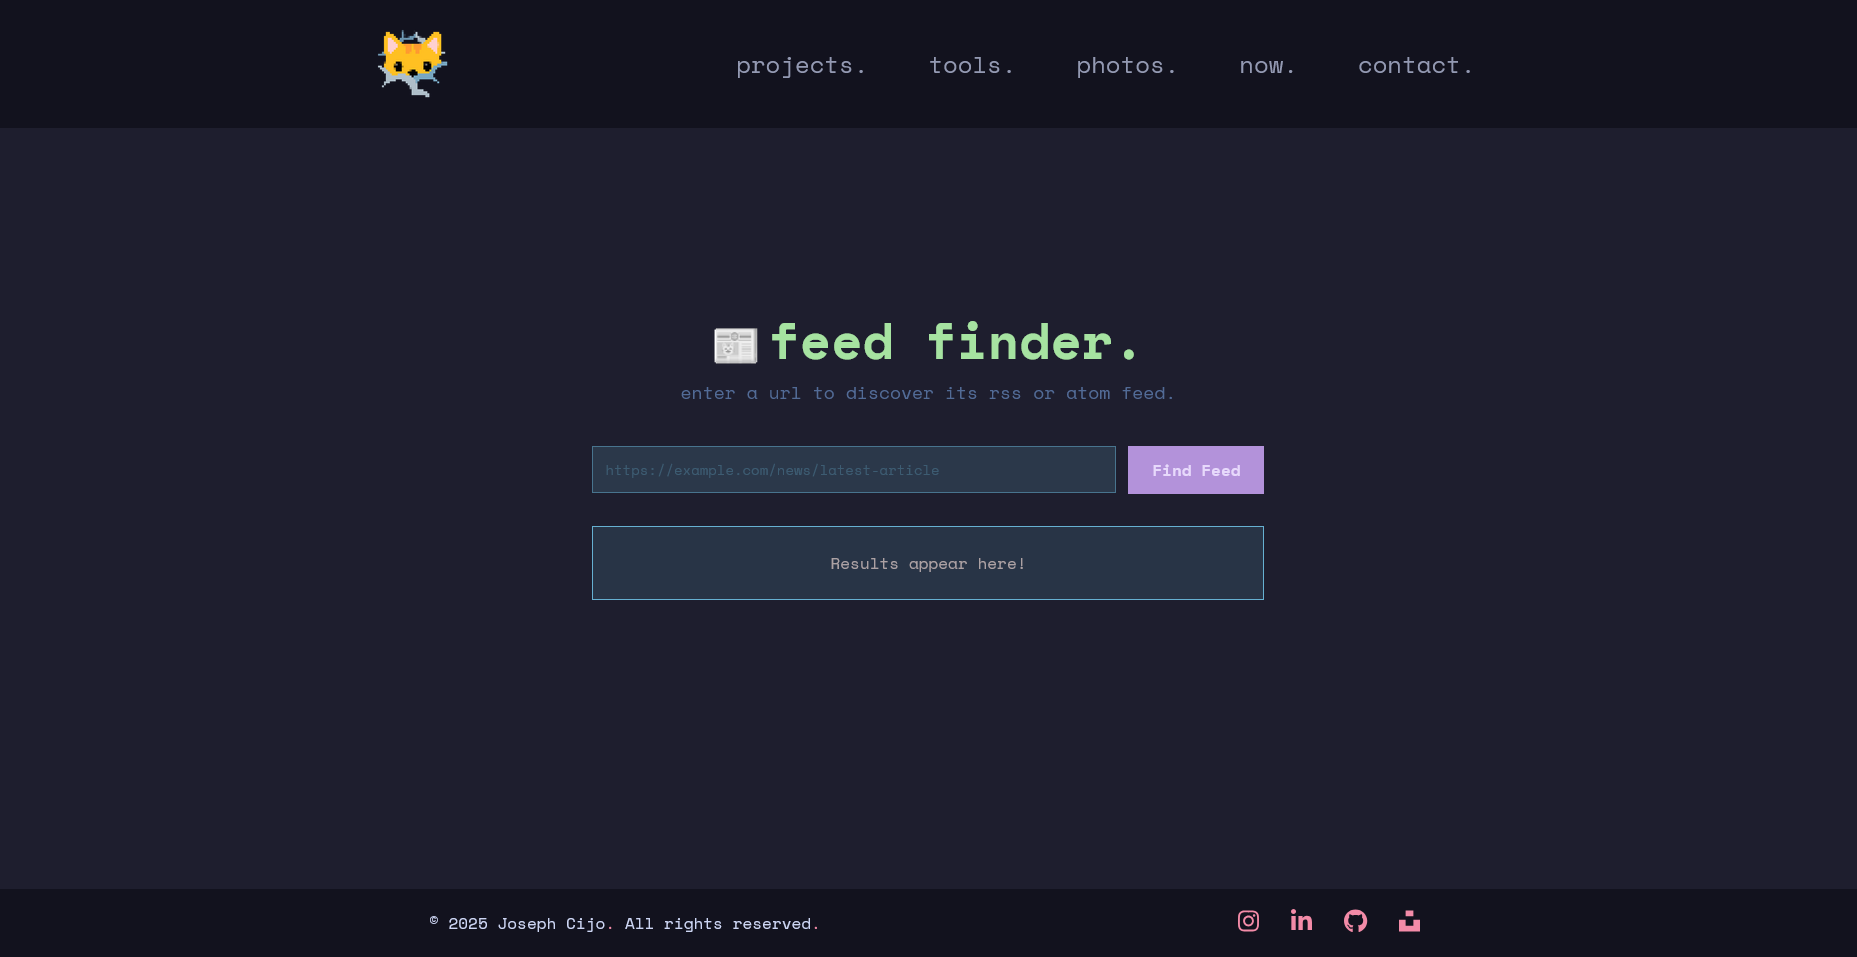
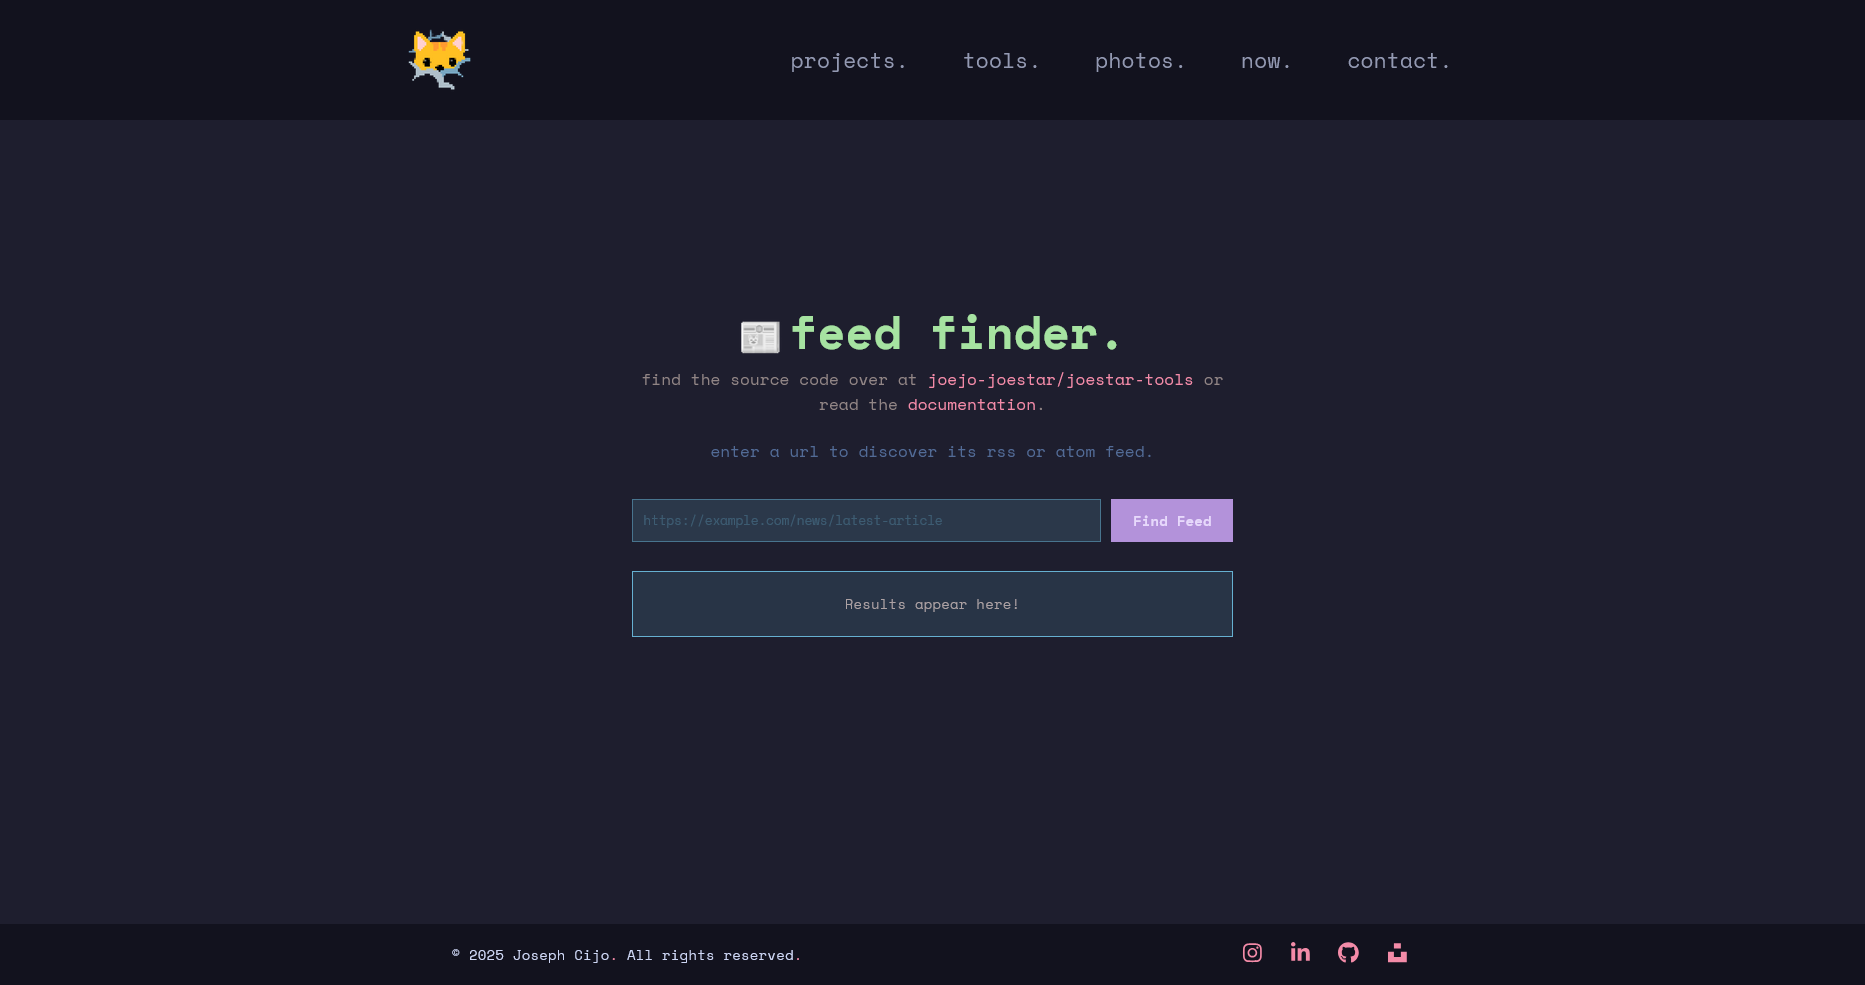
added links to src and doc in page

diff --git a/src/routes/FeedFinder/Index.tsx b/src/routes/FeedFinder/Index.tsx
@@ -60,6 +60,26 @@ function FeedFinder() {
               />
               feed finder.
             </h1>
+            <p className="text-ctp-rosewater-950 text-lg">
+              find the source code over at{" "}
+              <a
+                href="https://github.com/joejo-joestar/joestar-tools/"
+                target="_blank"
+                rel="noopener noreferrer"
+              >
+                joejo-joestar/joestar-tools
+              </a>{" "}
+              or read the{" "}
+              <a
+                href="https://github.com/joejo-joestar/joestar-tools/blob/main/docs/FeedFinder.readme.md"
+                target="_blank"
+                rel="noopener noreferrer"
+              >
+                documentation
+              </a>
+              .
+            </p>
+            <br />
             <p className="text-ctp-blue-950 text-lg">
               enter a url to discover its rss or atom feed.
             </p>
